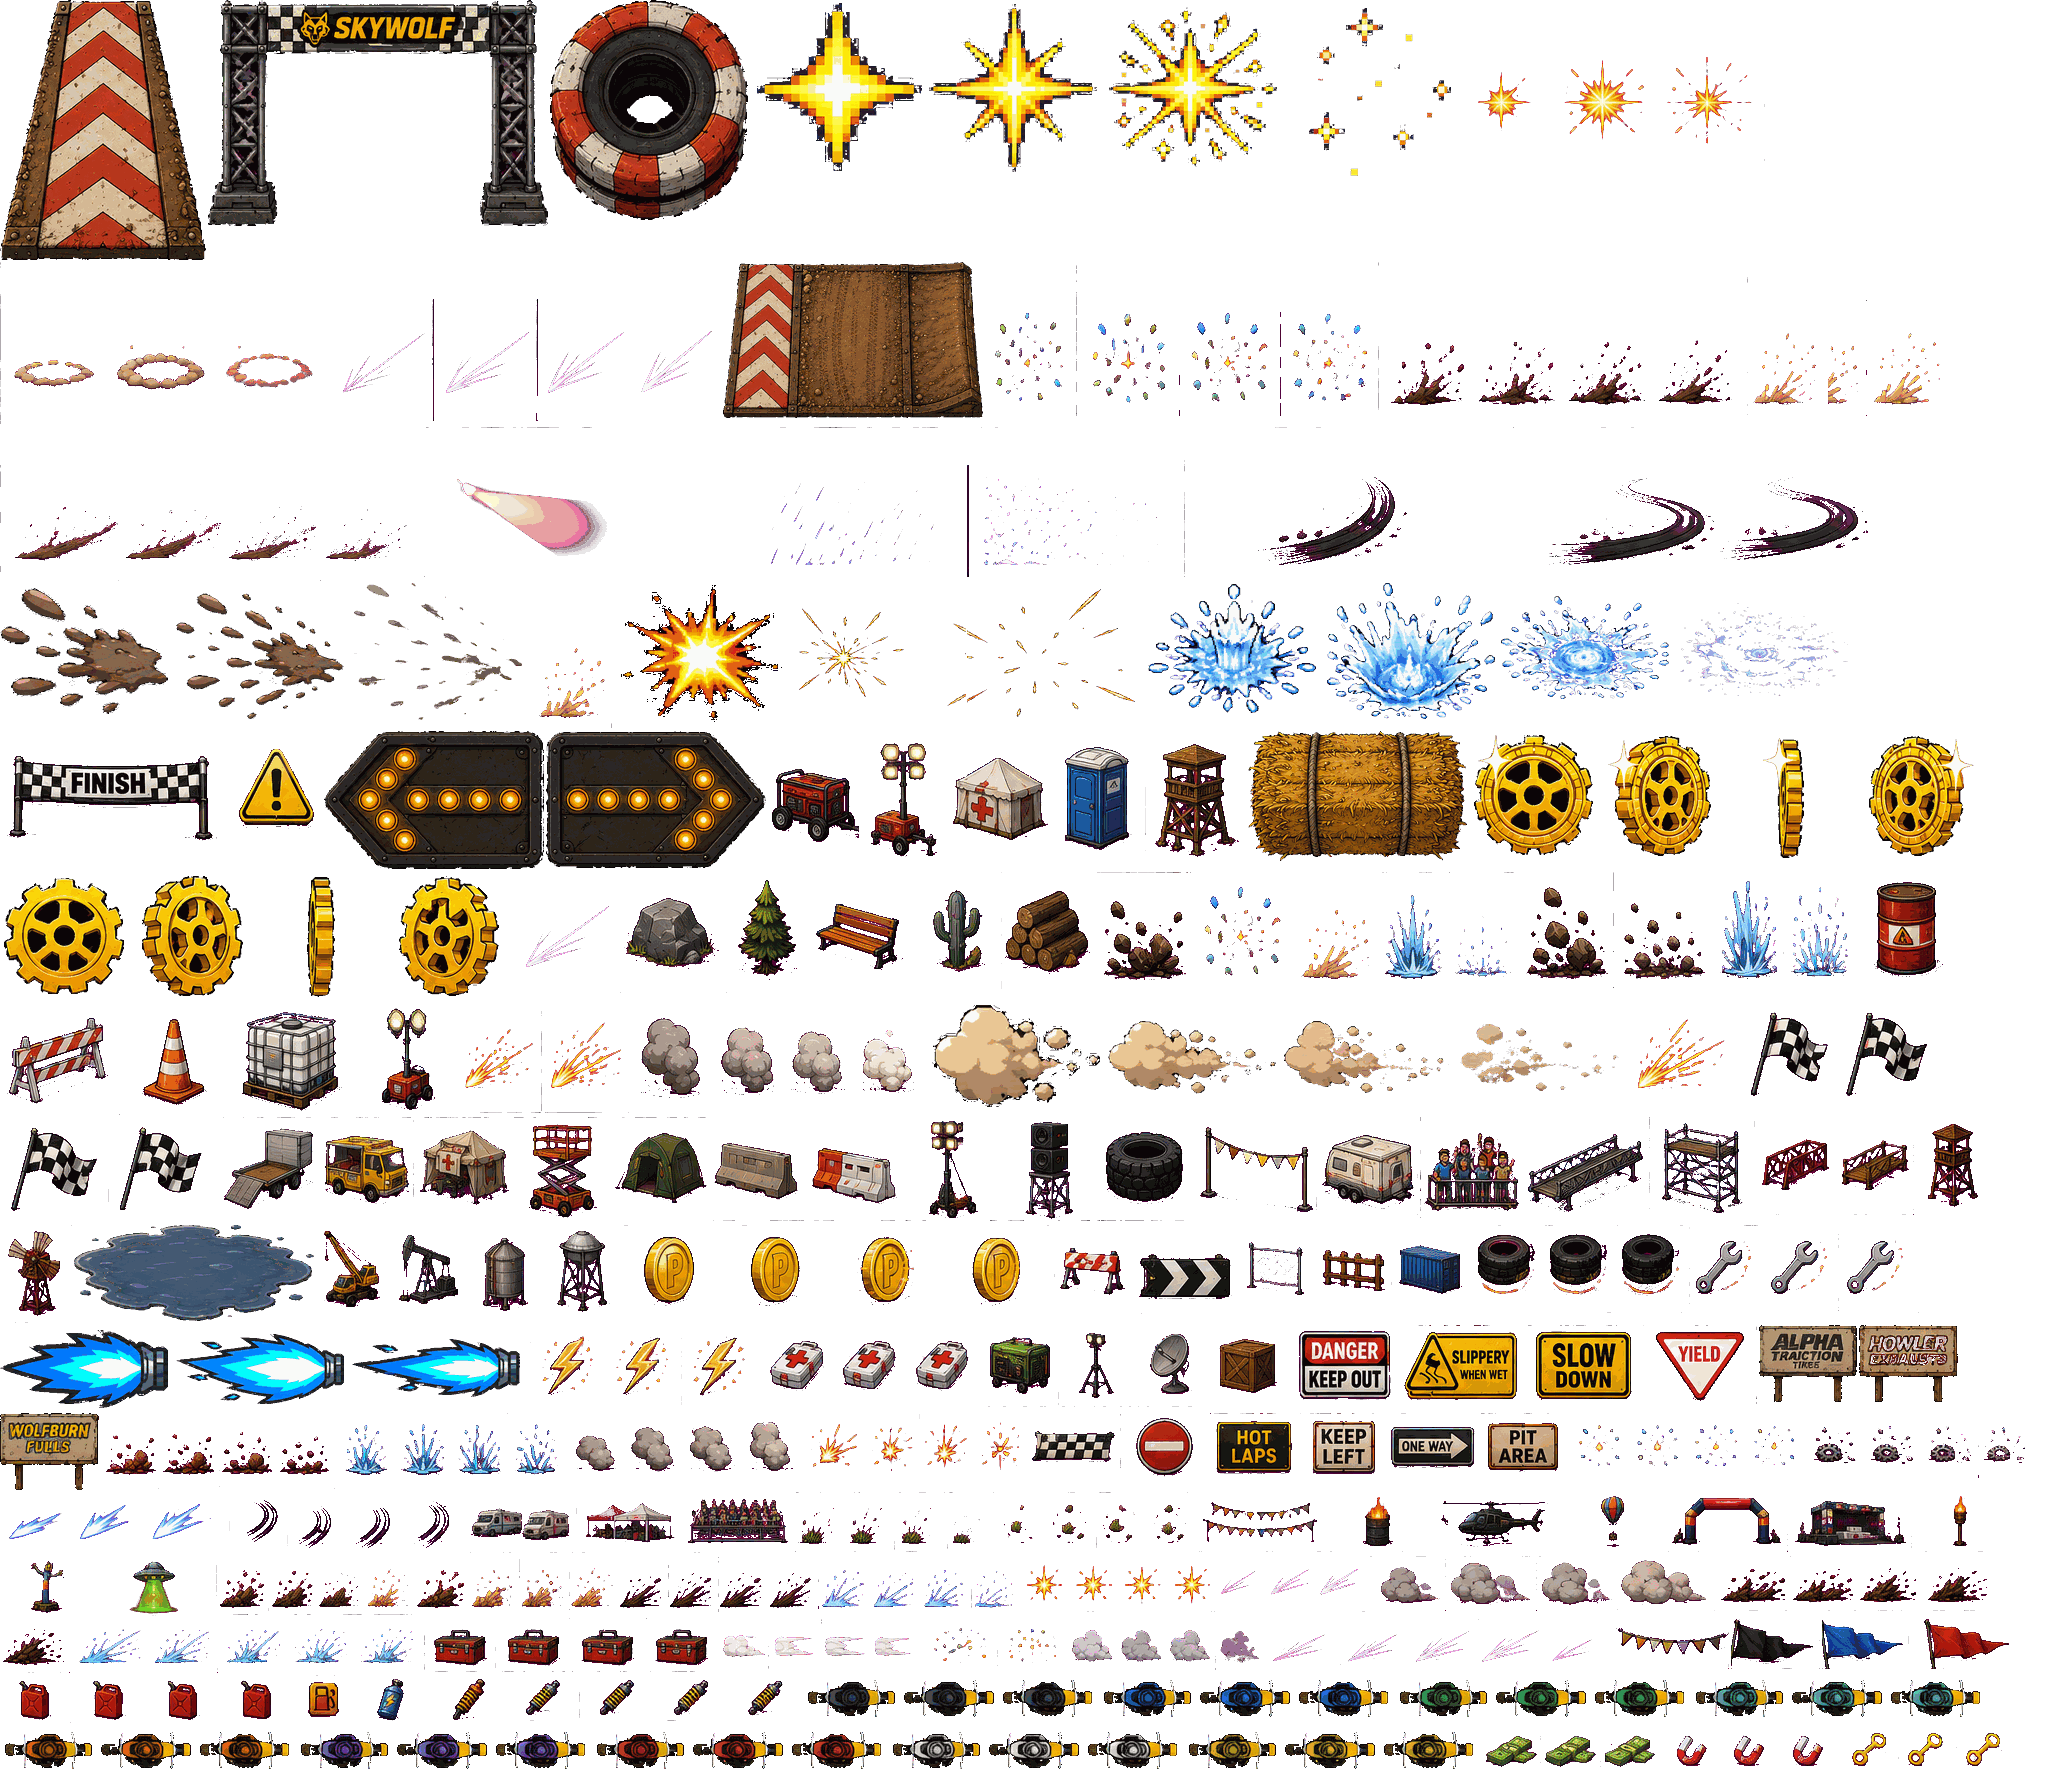
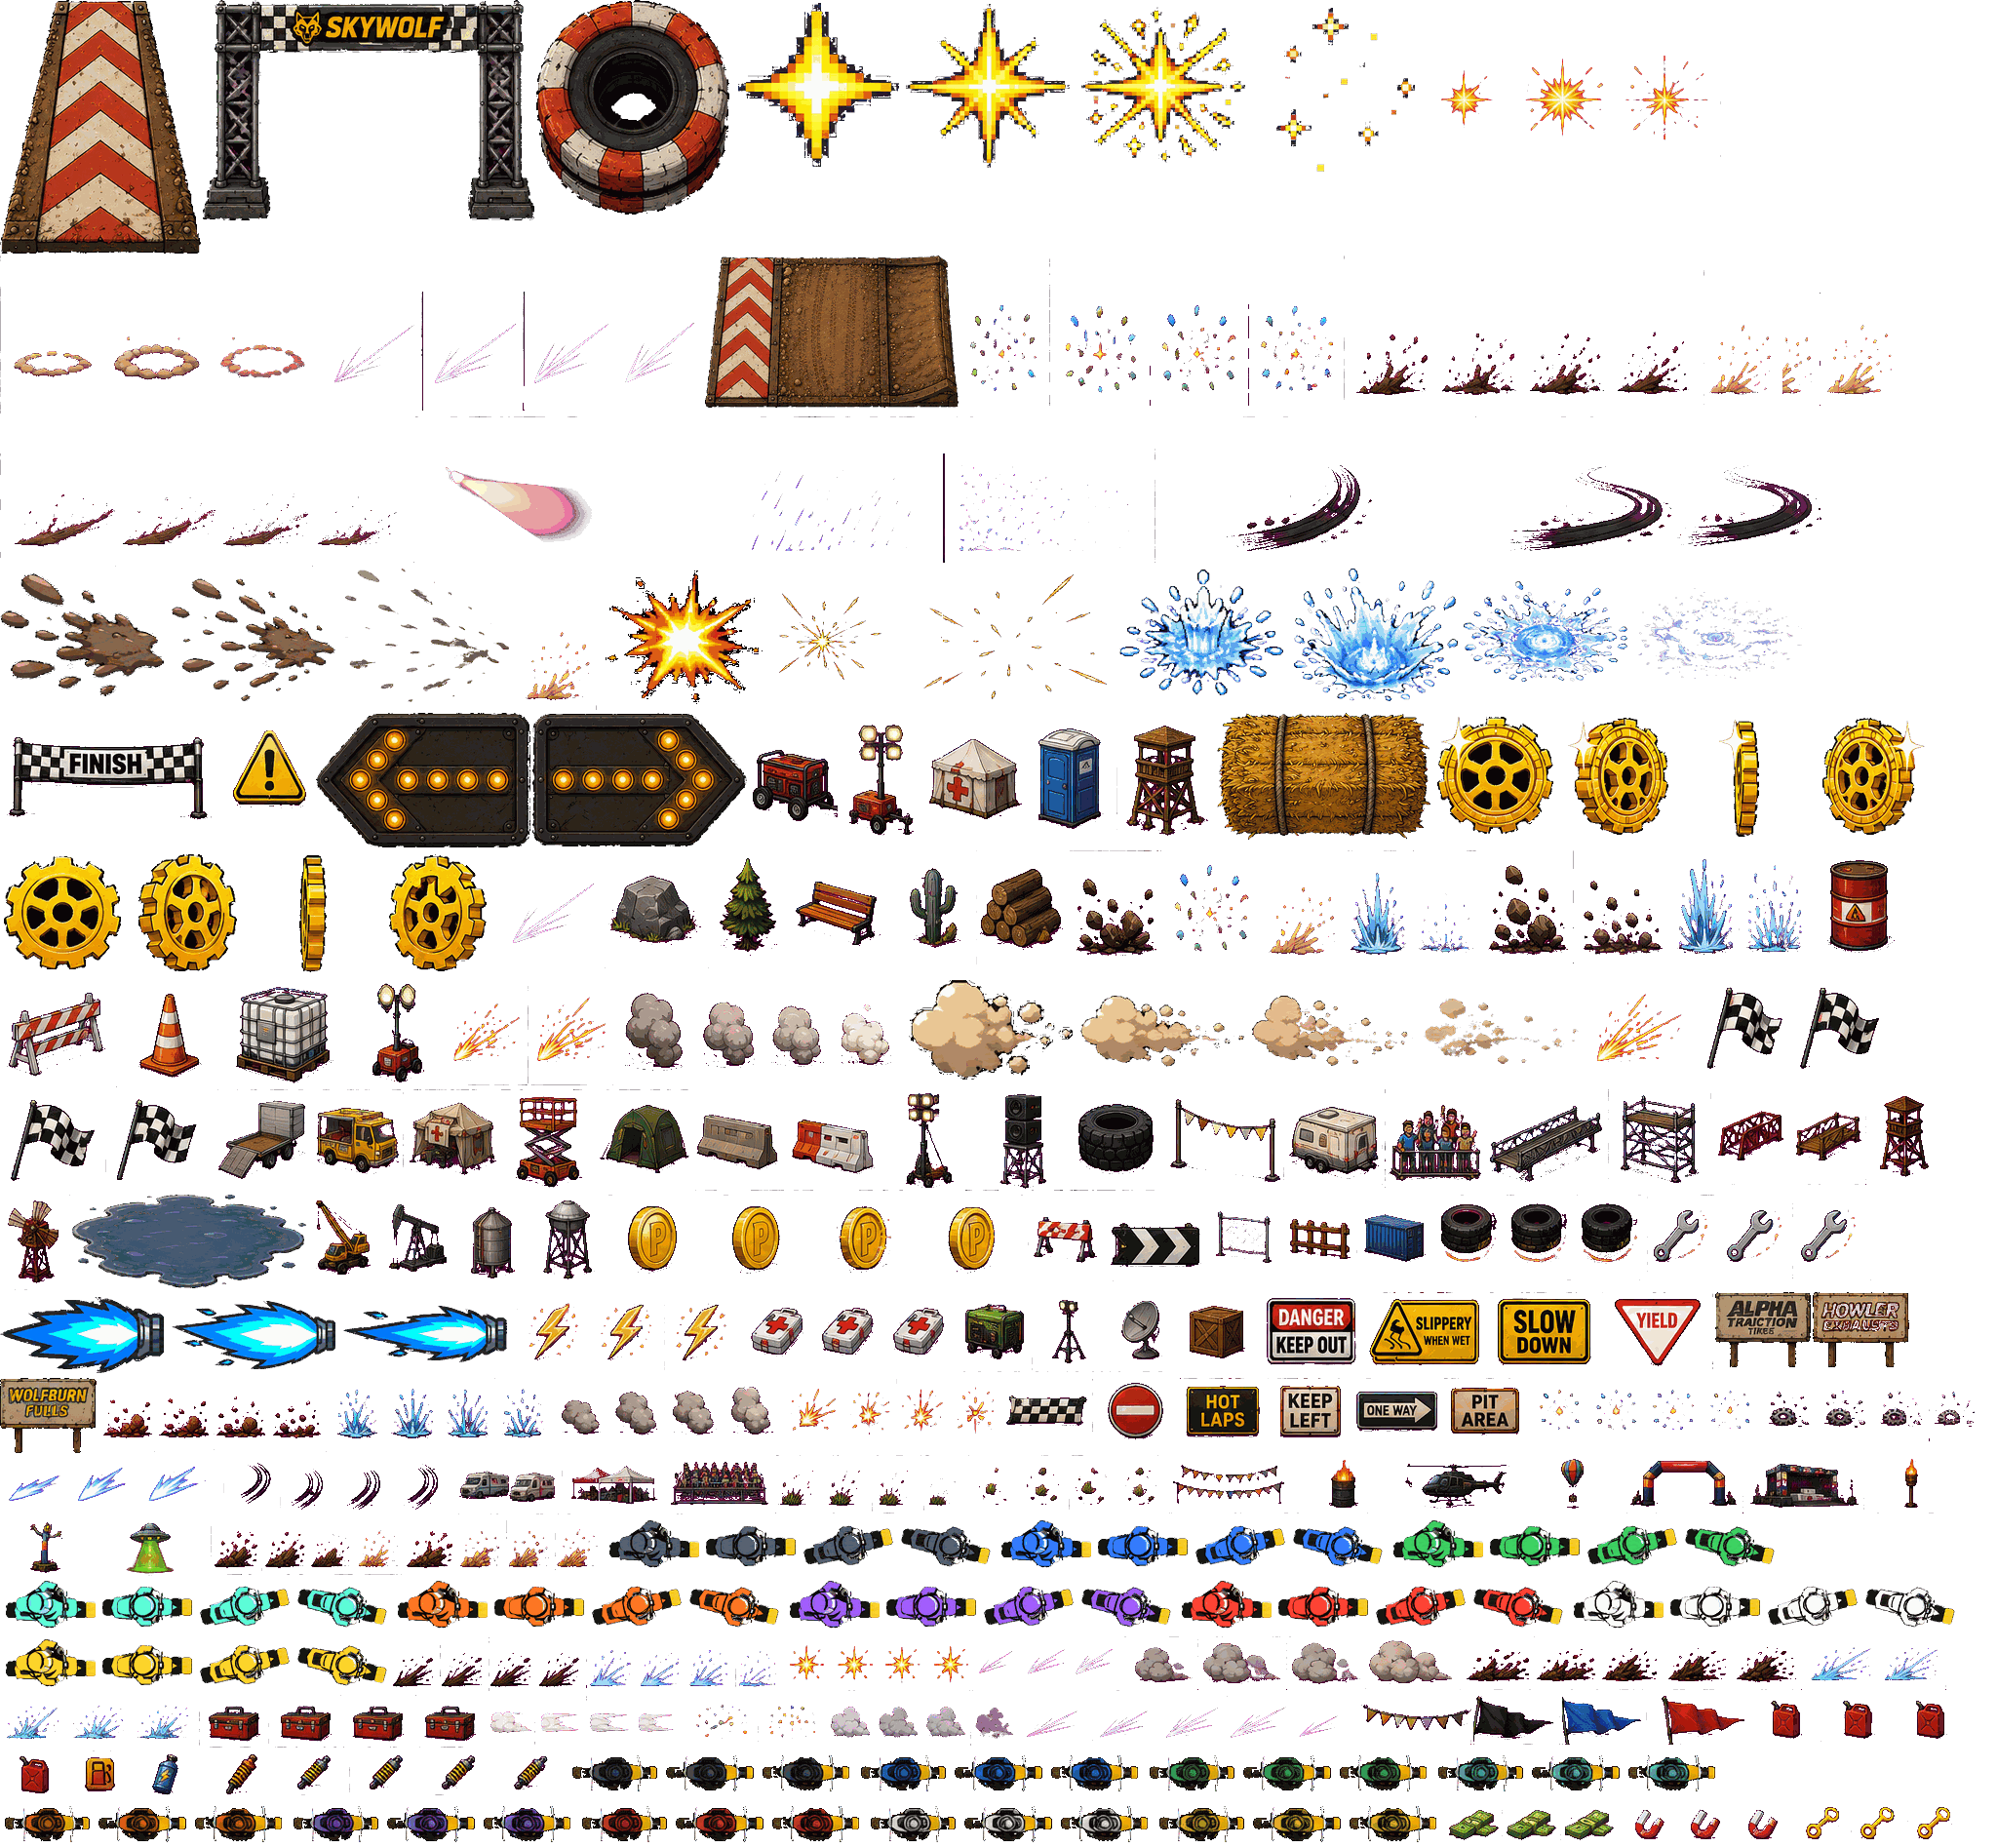
v1.3: pose sprites on-track (air/land/lean) + 7 biome ground tiles — every track has its own infield
Stress tested: 12/12 tracks error-free, 58-60fps (55 under nitro FX spam,
31+ at 4x CPU throttle), full race->results->payout flow verified headless.

diff --git a/src/track.js b/src/track.js
@@ -188,9 +188,23 @@ export function drawZone(c, track, zi) {
   }
 }
 
-/* Ground tile choice per theme: green-ish infields get meadow, tan/desert
-   themes get sand; the theme color then tints the texture so the 12 tracks
-   keep their distinct palettes. */
+/* Per-track infield tile (wave3 biome grounds). Falls back to the hue
+   heuristic for any future track without an entry. */
+const GROUND_BY_TRACK = [
+  'ground_meadow',   // 01 Rookie Oval
+  'ground_desert',   // 02 Hairpin Gulch
+  'ground_meadow',   // 03 Peanut Flats
+  'ground_canyon',   // 04 Snake Canyon
+  'ground_stadium',  // 05 Stadium GP
+  'ground_swamp',    // 06 Mud Bowl
+  'ground_prairie',  // 07 Ridge Runner
+  'ground_storm',    // 08 Ironman Circuit
+  'ground_swamp',    // 09 Crossover Junction
+  'ground_prairie',  // 10 Rallycross Switch
+  'ground_desert',   // 11 Sandstorm Sweep
+  'ground_ridge',    // 12 Wolf's Den
+];
+
 function groundTile(th) {
   const n = parseInt(th.g1.slice(1), 16);
   const r = (n >> 16) & 255, g = (n >> 8) & 255, b = n & 255;
@@ -205,21 +219,20 @@ export function prerenderTrack(ti) {
   trackCanvas.width = W; trackCanvas.height = H;
   const c = trackCanvas.getContext('2d');
   const th = track.def.theme;
-  const groundPat = terrainPattern(c, groundTile(th), 190);
+  const groundPat = terrainPattern(c, GROUND_BY_TRACK[ti] || groundTile(th), 190)
+    || terrainPattern(c, groundTile(th), 190);
   if (groundPat) {
-    // texture base + a theme wash so every track keeps its palette. Dark
-    // themes (Stadium GP, Ironman, Crossover, Wolf's Den) need a multiply
-    // wash — a translucent overlay of a dark color over the bright meadow
-    // tile still reads 40-60% too bright for their slate/forest palettes.
+    // per-biome tiles already sit close to their theme palettes, so the
+    // wash is light: multiply for dark themes, plain overlay for bright.
     const gn = parseInt(th.g1.slice(1), 16);
     const glum = ((gn >> 16) & 255) + ((gn >> 8) & 255) + (gn & 255);
     c.fillStyle = groundPat; c.fillRect(0, 0, W, H);
     if (glum < 320) {
       c.globalCompositeOperation = 'multiply';
-      c.globalAlpha = 0.78; c.fillStyle = th.g1; c.fillRect(0, 0, W, H);
+      c.globalAlpha = 0.45; c.fillStyle = th.g1; c.fillRect(0, 0, W, H);
       c.globalCompositeOperation = 'source-over';
     } else {
-      c.globalAlpha = 0.34; c.fillStyle = th.g1; c.fillRect(0, 0, W, H);
+      c.globalAlpha = 0.25; c.fillStyle = th.g1; c.fillRect(0, 0, W, H);
     }
     c.globalAlpha = 1;
   } else {

diff --git a/src/render.js b/src/render.js
@@ -65,7 +65,16 @@ function drawBikeSprite(c, b, name) {
     const nf = Math.floor(race.t * 18) % 3;
     drawSpr(c, 'fx_nitro_flame_strip', -27 - Math.random() * 3, 0, 21 + Math.random() * 5, 0, nf);
   }
-  drawSpr(c, name, 0, 0, 42 * scale, 0, f);
+  // pose frames (wave3): f0 air, f1 land, f2 lean left, f3 lean right
+  const poses = name.replace('_strip', '_poses');
+  let pi = -1;
+  if (frameCount(poses) === 4) {
+    if (b.z > 5) pi = 0;
+    else if (b.landT > 0) pi = 1;
+    else if (Math.abs(b.steer) > 0.5 && b.speed > 110) pi = b.steer > 0 ? 3 : 2;
+  }
+  if (pi >= 0) drawSpr(c, poses, 0, 0, 42 * scale, 0, pi);
+  else drawSpr(c, name, 0, 0, 42 * scale, 0, f);
   c.restore();
 
   // floating plate number

diff --git a/src/physics.js b/src/physics.js
@@ -11,12 +11,13 @@ export function makeBike(opts) {
     nitro: 0, nitroT: 0, cash: 0, style: 0, air: 0,
     lapStart: 0, bestLap: Infinity,
     isAI: false, skill: 1, look: 26, name: 'You', color: '#e23b2e', plate: 7,
-    lastRampF: -1, dustT: 0,
+    lastRampF: -1, dustT: 0, landT: 0,
   }, opts);
 }
 
 export function updateBike(b, dt) {
   const { track, race } = S;
+  if (b.landT > 0) b.landT -= dt;
   if (b.finished) { b.throttle = 0.4; } // cruise after finish
   const st = b.stats;
   const zone = track.zoneAt(track.frac(b.idx));
@@ -69,6 +70,7 @@ export function updateBike(b, dt) {
       b.z = 0;
       const hard = b.vz < -330 && st.land < 0.6;
       if (hard) b.speed *= (0.55 + st.land * 0.35);
+      b.landT = 0.28;                     // suspension-compressed sprite pose
       spawnFx('fx_land_poof_strip', b.x, b.y + 6, { size: 34, life: 0.4 });
       if (!b.isAI) {
         const pts = Math.round(b.air * 22 + (hard ? 0 : 12));

diff --git a/src/sprites.js b/src/sprites.js
@@ -50,7 +50,9 @@ const terrains = {};
 const patternCache = {};
 
 export async function loadTerrain() {
-  const names = ['terrain_dirt_loam', 'terrain_mud_a', 'terrain_sand', 'ground_meadow'];
+  const names = ['terrain_dirt_loam', 'terrain_mud_a', 'terrain_sand', 'ground_meadow',
+                 'ground_desert', 'ground_prairie', 'ground_canyon', 'ground_stadium',
+                 'ground_swamp', 'ground_ridge', 'ground_storm'];
   await Promise.all(names.map(n => new Promise(res => {
     const im = new Image();
     im.onload = () => { terrains[n] = im; res(); };

diff --git a/tools/wave3_20260704.py b/tools/wave3_20260704.py
@@ -1,0 +1,203 @@
+#!/usr/bin/env python3
+"""wave3_20260704.py — drop 2 (2-20260704T173026Z): Wave A poses + Wave B grounds.
+
+  assets/terrain/ground_{desert,prairie,canyon,stadium,swamp,ridge,storm}.jpg
+  assets/art/trackbike/trackbike_<paint>_poses.png   4-frame strip:
+      f0=air  f1=land  f2=lean_left  f3=lean_right   (x9 paints, green-keyed)
+  assets/art/bike/bike_downed_side.png               riderless, stashed
+
+Lean naming is derived, not assumed: canvas y is down and physics does
+heading += steer*rate, so steer>0 turns clockwise (a visual RIGHT turn when
+facing right) and the rider hangs toward +y. After rotation-normalizing each
+lean sprite to face right, the pose whose green rider centroid sits at +y
+(below the bike axis) is lean_right.
+
+Run: python3 tools/wave3_20260704.py   then: python3 tools/build_atlas.py
+"""
+import os, sys, json, math
+import numpy as np
+from PIL import Image
+
+HERE = os.path.dirname(os.path.abspath(__file__))
+ROOT = os.path.dirname(HERE)
+ART = os.path.join(ROOT, 'assets', 'art')
+DROP = os.path.join(os.path.dirname(ROOT), 'artdrop2', '2')
+
+sys.path.insert(0, HERE)
+from wave_20260704 import defringe, heal_holes, trim, islands, strip_of, repaint, rgb_to_hsv
+from wave2_20260704 import key_magenta, shrink, tileize
+
+F = {
+    'grounds_grid':  'file_000000004218722f81cbde169ef0de5e.png',   # 2x2: desert prairie / canyon stadium
+    'grounds_strip': 'file_00000000b56c722fb4a60fe20a4de8aa.png',   # 1x3: swamp ridge storm
+    'poses':         'file_00000000c12c722f9d4de4586344b100.png',   # air land lean lean downed
+}
+PAINTS = [(c['id'], c['hex']) for c in
+          json.load(open(os.path.join(ROOT, 'data', 'cosmetics.json')))['colors']]
+
+written, warnings = [], []
+
+
+def src(k):
+    return np.array(Image.open(os.path.join(DROP, F[k])).convert('RGB')).astype(float)
+
+
+def save_rgba(a, rel):
+    p = os.path.join(ART, rel)
+    os.makedirs(os.path.dirname(p), exist_ok=True)
+    Image.fromarray(np.clip(a, 0, 255).astype('uint8'), 'RGBA').save(p, optimize=True)
+    written.append(rel)
+
+
+# ---------- grounds ----------
+
+def magenta_mask(rgb):
+    r, g, b = rgb[..., 0], rgb[..., 1], rgb[..., 2]
+    return (r > 150) & (b > 150) & (g < np.minimum(r, b) * 0.5)
+
+
+def split_on_gutters(rgb, axis):
+    """Split along magenta gutter rows/columns (>60% magenta)."""
+    m = magenta_mask(rgb)
+    prof = m.mean(axis=1 if axis == 0 else 0)
+    gut = prof > 0.6
+    cells, start = [], None
+    for i, v in enumerate(gut):
+        if not v and start is None:
+            start = i
+        elif v and start is not None:
+            if i - start > 40:
+                cells.append((start, i))
+            start = None
+    if start is not None and len(gut) - start > 40:
+        cells.append((start, len(gut)))
+    return cells
+
+
+def do_grounds():
+    grid = src('grounds_grid')
+    rows = split_on_gutters(grid, 0)
+    names = [['ground_desert', 'ground_prairie'], ['ground_canyon', 'ground_stadium']]
+    if len(rows) != 2:
+        warnings.append('grounds_grid rows %d != 2' % len(rows)); return
+    for (r0, r1), rnames in zip(rows, names):
+        band = grid[r0:r1]
+        cols = split_on_gutters(band, 1)
+        if len(cols) != 2:
+            warnings.append('grounds_grid cols %d != 2' % len(cols)); return
+        for (c0, c1), name in zip(cols, rnames):
+            tileize(band[:, c0:c1], name)
+            written.append('terrain/%s.jpg' % name)
+    strip = src('grounds_strip')
+    cols = split_on_gutters(strip, 1)
+    snames = ['ground_swamp', 'ground_ridge', 'ground_storm']
+    if len(cols) != 3:
+        # thin separators may not be >60% magenta — fall back to equal thirds
+        w = strip.shape[1] // 3
+        cols = [(i * w + 8, (i + 1) * w - 8) for i in range(3)]
+        warnings.append('grounds_strip gutters not found, used thirds')
+    for (c0, c1), name in zip(cols, snames):
+        tileize(strip[:, c0:c1], name)
+        written.append('terrain/%s.jpg' % name)
+
+
+# ---------- poses ----------
+
+def kill_dark_gutters(a):
+    """Baked-in black separator columns: near-black, near-full-height."""
+    dark = (a[..., 3] > 0) & (a[..., :3].max(axis=-1) < 40)
+    colfrac = dark.mean(axis=0)
+    kill = colfrac > 0.7
+    a[..., 3] = np.where(kill[None, :], 0, a[..., 3])
+    return a
+
+
+def principal_angle(a):
+    ys, xs = np.where(a[..., 3] > 60)
+    x = xs - xs.mean(); y = ys - ys.mean()
+    cov = np.array([[np.mean(x * x), np.mean(x * y)], [np.mean(x * y), np.mean(y * y)]])
+    evals, evecs = np.linalg.eigh(cov)
+    v = evecs[:, np.argmax(evals)]
+    return math.degrees(math.atan2(v[1], v[0]))
+
+
+def normalize_pose(a):
+    """Rotate so the bike's long axis is horizontal, nose (yellow plate) right."""
+    ang = principal_angle(a)
+    if ang > 90: ang -= 180
+    if ang < -90: ang += 180
+    if abs(ang) > 8:
+        im = Image.fromarray(np.clip(a, 0, 255).astype('uint8'), 'RGBA')
+        a = np.array(im.rotate(ang, expand=True, resample=Image.BICUBIC)).astype(float)
+    a = trim(a)
+    # nose check: yellow plate centroid must sit right of center
+    r, g, b = a[..., 0], a[..., 1], a[..., 2]
+    yellow = (r > 170) & (g > 130) & (b < 110) & (a[..., 3] > 60)
+    if yellow.sum() > 30:
+        if np.where(yellow)[1].mean() < a.shape[1] / 2:
+            a = a[:, ::-1].copy()
+    return a
+
+
+def rider_side(a):
+    """+1 rider hangs below axis (+y), -1 above. Green = jersey/fairing;
+    use the offset of green mass from the alpha centroid."""
+    h, s, v = rgb_to_hsv(a)
+    green = (h > 70) & (h < 165) & (s > 0.45) & (v > 0.3) & (a[..., 3] > 60)
+    ys_all = np.where(a[..., 3] > 60)[0]
+    ys_g = np.where(green)[0]
+    return 1 if ys_g.mean() > ys_all.mean() else -1
+
+
+def do_poses():
+    a = kill_dark_gutters(key_magenta(src('poses')))
+    w = a.shape[1] // 5
+    cells = [trim(a[:, i * w:(i + 1) * w]) for i in range(5)]
+    if any(c.shape[0] < 30 for c in cells):
+        warnings.append('pose cells degenerate'); return
+    air, land, leanA, leanB, downed = cells
+    # handedness = sign of the baked yaw tilt (y-down: nose-up = negative
+    # angle = left-curving attitude). The rider offset is symmetric in this
+    # art, so the tilt sign is the only reliable signal.
+    angA, angB = principal_angle(leanA), principal_angle(leanB)
+    for a_ in (angA, angB):
+        pass
+    def wrap(x):
+        if x > 90: x -= 180
+        if x < -90: x += 180
+        return x
+    angA, angB = wrap(angA), wrap(angB)
+    if (angA < 0) == (angB < 0):
+        warnings.append('lean tilts same sign (%.1f / %.1f) — assigned by magnitude' % (angA, angB))
+    if angA < angB:
+        lean_l_raw, lean_r_raw = leanA, leanB
+    else:
+        lean_l_raw, lean_r_raw = leanB, leanA
+
+    def tilted(p, deg):
+        p = normalize_pose(p)
+        im = Image.fromarray(np.clip(p, 0, 255).astype('uint8'), 'RGBA')
+        # PIL rotate() is CCW-positive in image coords (visual CCW with y down
+        # means nose dips DOWN for negative deg) — keep 14 deg of lean read
+        return trim(np.array(im.rotate(deg, expand=True, resample=Image.BICUBIC)).astype(float))
+    lean_l, lean_r = tilted(lean_l_raw, 14), tilted(lean_r_raw, -14)
+    air, land = normalize_pose(air), normalize_pose(land)
+
+    # match the ride strip's bike length (~90px) so on-track scale is stable
+    frames = [shrink(heal_holes(p), 92) for p in (air, land, lean_l, lean_r)]
+    for pid, phex in PAINTS:
+        save_rgba(strip_of([repaint(f.copy(), phex) for f in frames]),
+                  'trackbike/trackbike_%s_poses.png' % pid)
+    save_rgba(shrink(heal_holes(downed), 300), 'bike/bike_downed_side.png')
+
+
+if __name__ == '__main__':
+    do_grounds()
+    do_poses()
+    print('wrote %d files' % len(written))
+    for x in written:
+        print('  ', x)
+    if warnings:
+        print('WARNINGS:')
+        for x in warnings:
+            print('  !', x)

diff --git a/tools/build_atlas.py b/tools/build_atlas.py
@@ -26,6 +26,9 @@ STRIP_FRAMES = {
     # top-down ride strips (wave 0704): 3-frame bob cycle per paint
     **{'trackbike_%s_strip' % p: 3 for p in
        ['red', 'blue', 'green', 'yellow', 'orange', 'purple', 'white', 'black', 'mint']},
+    # pose strips (wave3): f0 air, f1 land, f2 lean left, f3 lean right
+    **{'trackbike_%s_poses' % p: 4 for p in
+       ['red', 'blue', 'green', 'yellow', 'orange', 'purple', 'white', 'black', 'mint']},
 }
 
 def clean_magenta(im):

diff --git a/CHANGELOG.md b/CHANGELOG.md
@@ -1,5 +1,16 @@
 # Changelog
 
+## 2026-07-04 — v1.3 pose sprites + 7 biome grounds (drop 2)
+- Bike pose sprites on-track: airborne (standing on pegs), landing
+  (suspension compressed, 0.28s after touchdown), lean left/right (banked
+  art +-14deg, picked by steer sign) — per paint, physics-driven.
+- Every track gets its own infield: desert, prairie, canyon, stadium,
+  swamp, ridge twilight, storm mud join meadow/sand. Per-track mapping
+  with lighter theme washes (multiply on dark themes).
+- bike_downed_side cut + stashed (crash mechanic is Phase 3).
+- Stress test: all 12 tracks error-free; 58-60fps, 55 under all-bikes-nitro
+  FX spam, 31+ at 4x CPU throttle; full race->results->payout flow verified.
+
 ## 2026-07-04 — v1.2 full art integration (Stephen's wave 0704 drop)
 - **Top-down sprite bikes ON-TRACK** — the Phase-1 blocker is gone. 3-frame
   ride-bob strips per paint (9 colors, green-keyed from Stephen's approved

diff --git a/ART_REQUEST_CHATGPT.md b/ART_REQUEST_CHATGPT.md
@@ -25,7 +25,7 @@ anywhere in the dust or spray"** to smoke/dust prompts.
 
 ---
 
-## WAVE A — remaining top-down poses (finishes the on-track animation set)
+## WAVE A — ✅ DELIVERED + WIRED 2026-07-04 (drop 2) — do not redo
 
 **A1 · bike_air (1 frame):**
 > Same exact bike and rider, same top-down camera as this image, new pose: airborne over a jump, both wheels off the ground, rider standing on the pegs with knees bent, bike level. [STYLE]
@@ -43,7 +43,7 @@ anywhere in the dust or spray"** to smoke/dust prompts.
 
 ---
 
-## WAVE B — the 7 remaining biome ground tiles (each track gets its own infield)
+## WAVE B — ✅ DELIVERED + WIRED 2026-07-04 (drop 2) — do not redo
 
 Template — swap [TEXTURE]:
 > A seamless repeating game texture, square image, top-down view: [TEXTURE]. Chunky flat cartoon colors, subtle detail, low contrast, no objects, no text, no vignette — the edges must tile perfectly when repeated.
@@ -60,7 +60,7 @@ Template — swap [TEXTURE]:
 
 ---
 
-## WAVE C — shop content (Phase 3; do AFTER A + B)
+## WAVE C — shop content (Phase 3) — THE ONLY WAVE LEFT
 
 **C1 · "RUST BUCKET" bike skin** — the ride strip pose set (4-frame ride strip
 plus A1-A4 poses) with this bike description instead: